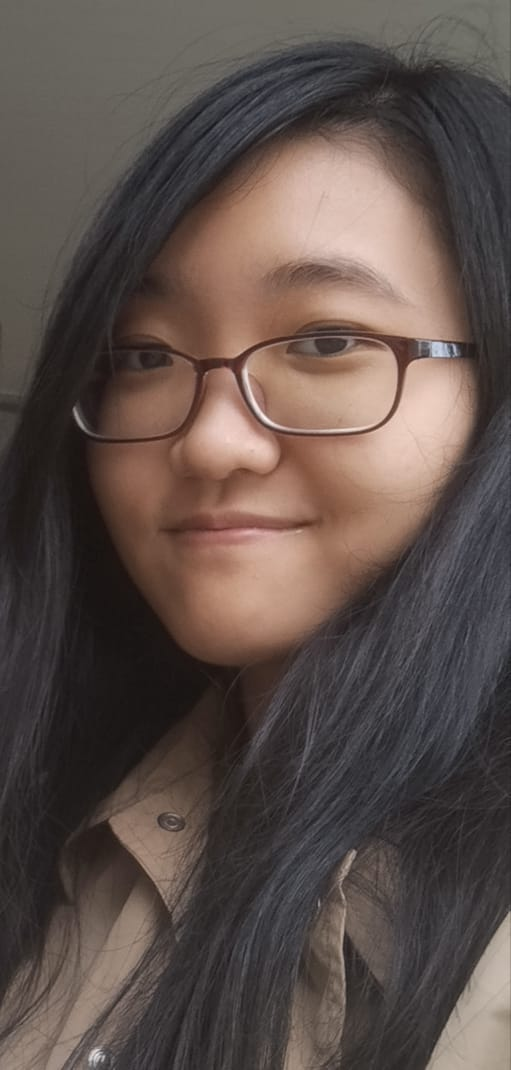
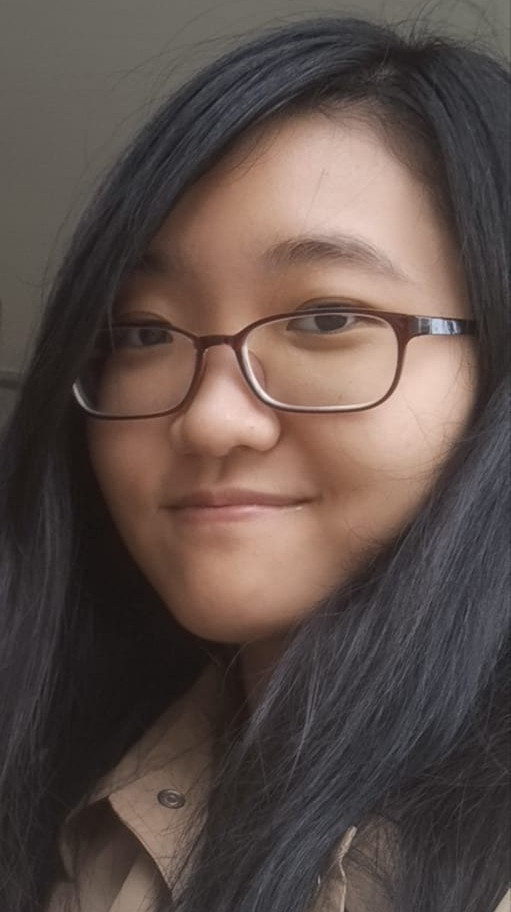
Feat: added paragraph

diff --git a/week2/self-intro.html b/week2/self-intro.html
@@ -6,7 +6,7 @@
     <title>self-intro</title>
     <style>
         body {
-            padding: 0 80px;
+            padding: 0 120px;
         }
 
         .image-container {
@@ -28,11 +28,11 @@
 
         h1 {
             font-size: 48px;
-            margin: 15px 20px 10px 0px;
+            margin: 10px 0px 10px 0px;
         }
         
         h2 {
-            margin: 0px 20px 15px 0px;
+            margin: 0px 0px 15px 0px;
         }
 
         p {
@@ -45,7 +45,7 @@
     <h2>"When this light goes down, story starts to rise up"</h2>
 
     <div class="image-container">
-        <img class="pfp" src="images/pfp.jpg" alt="Profile image" width="250">
+        <img class="pfp" src="images/pfp.jpg" alt="Profile image" height="500">
         
         <!-- Icons are now inside the container, below the image -->
         <br>
@@ -57,6 +57,13 @@
         </a>
     </div>
 
-    <p class="text">hi</p>
+    <p class="text">I am a student in Digital Media from Dasein Academy of Art. I chose to enroll in this program because I have an interest for both art and technology. The subject I look forward to learning the most is video production, as I have an interest in creating music videos. I have a love for music, and I often enjoy noticing the clever details and storytelling techniques used to make a song impactful.
+    <br><br>
+    However, I don't have the motivation that I'd need to strive in this field. The place where I'm more willing to put greater effort into lies in game development. So far, I have only gotten used to coding visual novels, and hope to learn a wider variety of games to create. However, my aim is not to make a money-earning career out of this skill, as my biggest priority when it comes to creating games is to have my own autonomy. I never wish to get hired to create addictive games or cash grabbers. While I do enjoy games purely meant for fun as well, I find it meaningless to solely create games that have a lack of depth. The true heart lies in something that I'd spend eternity perfecting, and that is the storytelling aspect of art creation.
+    <br><br>
+    This passion first sparked when I realised my love for story-based games. It fascinates me how we can dive into something attractive and engaging with the expectation of escaping reality, but come out with a deeper understanding of our own real lives, no matter how fantastical the stories can be. This brings me back to when I first entered Dasein. I was confused when the head lecturer highlighted that our mission as Digital Media students is to create artwork that solves problems in the real world, it gave off the impression that this program is overly practical. I never realised that this has been my goal all along, to inspire others just as how stories have inspired me.
+    <br><br>
+    My aspiration is to create fictional stories that can enhance others' realities. No matter how often I feel stuck in my own struggles, I hope that I will always be able to overcome them, and use them as inspiration to create art that can speak to others.
+    </p>
 </body>
 </html>
